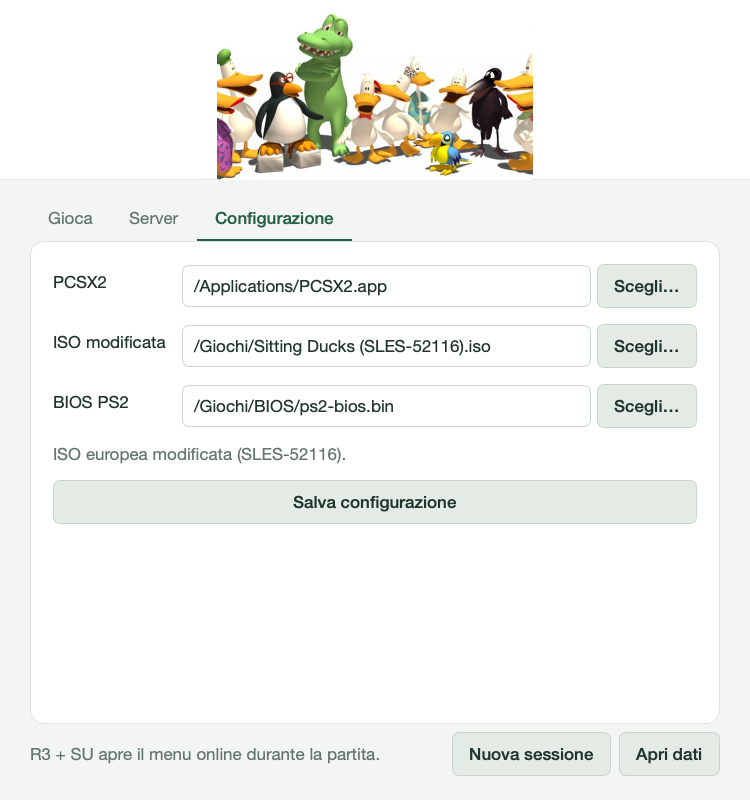
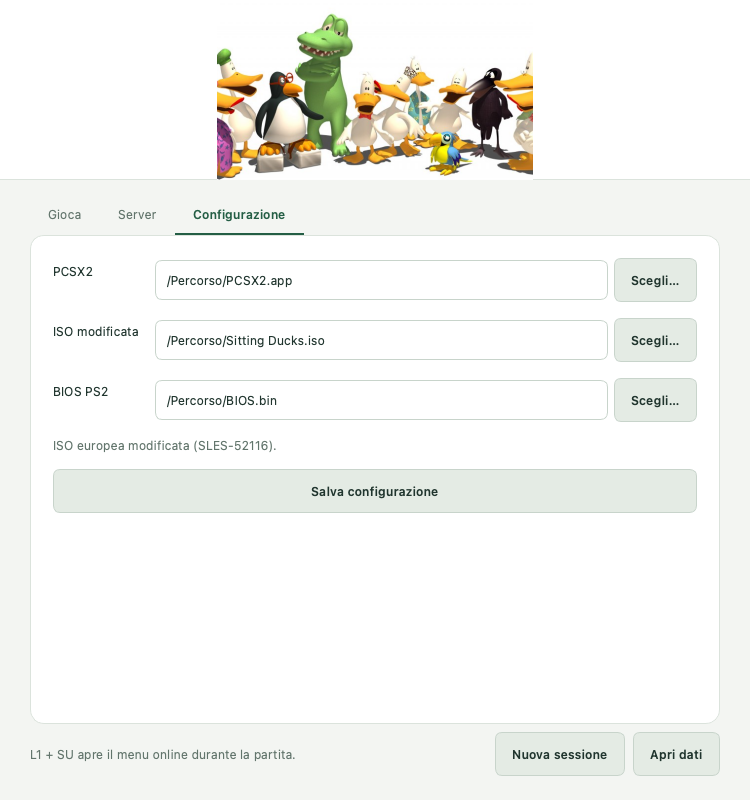
docs: update L1 controls and launcher help

diff --git a/it/features.html b/it/features.html
@@ -78,8 +78,7 @@
   <div class="media"></div>
 
   <h3 id="furgone">Furgone e NOS <span class="tag ok">confermato</span></h3>
-  <p>Un furgone guidabile, costruito dal modello del furgone già presente nella città, si evoca con
-    L3+Select. Tenendo premuto R1 alla guida si attiva il NOS: velocità doppia e fiamma azzurra e arancione dallo scarico.</p>
+  <p>Un furgone guidabile, costruito dal modello del furgone già presente nella città, si richiama dal menu dei mezzi. Tenendo premuto R1 alla guida si attiva il NOS: velocità doppia e fiamma azzurra e arancione dallo scarico.</p>
   <div class="media"></div>
 
   <h3 id="volo">Volo <span class="tag ok">confermato</span></h3>
@@ -95,18 +94,18 @@
   <p>Gli skate e gli aerei scelti dal menu non scompaiono più. Raoul, il corvo, compare nel menu dei mezzi.</p>
   <div class="media"></div>
 
-  <h3 id="personaggio">Cambio personaggio <span class="tag ok">confermato</span></h3>
-  <p>Con le frecce sinistra e destra passi da Bill ad Aldo e viceversa durante l'esplorazione.</p>
+  <h3 id="personaggio">Cambio personaggio <span class="tag wip">in prova</span></h3>
+  <p>Tieni L1 e premi DESTRA per passare al personaggio successivo durante l'esplorazione (comando aggiornato, in prova).</p>
   <div class="media"></div>
 
-  <h3 id="guardaroba">Guardaroba <span class="tag ok">confermato</span></h3>
-  <p>L1 apre il guardaroba: si scelgono i pezzi (cappelli, maschere, costumi) zona per zona con le frecce.
+  <h3 id="guardaroba">Guardaroba <span class="tag wip">in prova</span></h3>
+  <p>Premi e rilascia L1 da solo per aprire/chiudere il guardaroba (comando aggiornato, in prova). Una combo annulla il tap: si scelgono i pezzi (cappelli, maschere, costumi) zona per zona con le frecce.
     Gli accessori vengono dal gioco originale, dove li indossavano altri personaggi. Online, la scelta viene salvata nel profilo.</p>
   <div class="media"></div>
 
   <h3 id="giornonotte">Giorno e notte <span class="tag ok">confermato</span></h3>
   <p>Un ciclo completo dura 15 minuti. Di notte ci sono meno civili in strada e suona la musica della palude.
-    R3+Select passa subito dal giorno alla notte o viceversa.</p>
+    La scorciatoia sul controller è rimossa; giorno e notte restano regolabili dall'host.</p>
   <div class="media"></div>
 
   <h3 id="coop">Co-op a schermo condiviso <span class="tag ok">confermato</span></h3>
@@ -126,8 +125,8 @@
     nel server, oppure lo ospita. Non serve installare Python.</p>
   <div class="media"><img src="../media/launcher-gioca.png" alt="Il launcher"></div>
 
-  <h3 id="menuonline">Menu online nel gioco <span class="tag ok">confermato</span></h3>
-  <p>R3+SU apre il menu online senza uscire dal gioco: Ospita, Entra, Disconnetti. Uscire dalla partita scollega dal server.</p>
+  <h3 id="menuonline">Menu online nel gioco <span class="tag wip">in prova</span></h3>
+  <p>L1+SU apre il menu online senza uscire dal gioco: Ospita, Entra, Disconnetti. Uscire dalla partita scollega dal server.</p>
   <div class="media"></div>
 
   <h3 id="profili">Profili persistenti e piume <span class="tag ok">confermato</span></h3>
@@ -151,7 +150,7 @@
   <div class="media"></div>
 
   <h3 id="riconnessione">Rientro dal gioco <span class="tag wip">in prova</span></h3>
-  <p>Dopo la disconnessione e il ripristino della partita offline, R3+SU → Entra ricollega all'ultimo server con il launcher
+  <p>Dopo la disconnessione e il ripristino della partita offline, L1+SU → Entra ricollega all'ultimo server con il launcher
     in background. Il launcher riconosce questa connessione e permette di scollegarla. Gli errori di rete o patch restano visibili,
     senza chiedere di caricare una partita già caricata. Controlli automatici del ciclo superati; conferma nel gioco pendente.</p>
   <div class="media"></div>
@@ -163,7 +162,7 @@
   <div class="media"></div>
 
   <h3 id="host">Impostazioni dell'host <span class="tag wip">in prova</span></h3>
-  <p>Chi ospita, dal menu R3+SU: piume iniziali, sblocchi (scooter, veicoli, oggetti, mappe, personaggi), ciclo
+  <p>Chi ospita, dal menu L1+SU: piume iniziali, sblocchi (scooter, veicoli, oggetti, mappe, personaggi), ciclo
     giorno e notte, civili sì o no, aree della città sbloccate. Può anche azzerare il profilo di un giocatore o chiudere il server.</p>
   <div class="media"></div>
 
@@ -176,7 +175,7 @@
     indossabili e accessori, scegliendo prezzo in piume, distanza e altezza. Ogni giocatore li sblocca
     separatamente; l'acquisto richiede conferma e le richieste ripetute non addebitano due volte.
     Alcune abilità/mappe usano una piuma come segnaposto. I veicoli esposti sbloccano il richiamo dall'inventario.</p>
-  <p>A piedi, Cerchio vicino a un player/NPC davanti a te richiede una spinta, con caduta, impulso nel verso
+  <p>A piedi, L1 + Cerchio vicino a un player/NPC davanti a te richiede una spinta, con caduta, impulso nel verso
     del calcio e perdita di piume. L'animazione dello skate è candidata alla riproduzione inversa.
     Verifiche automatiche e rete reale superate; resa visiva, quantità delle piume e collisioni richiedono
     ancora il collaudo con due client. Riavvio completo con server e client aggiornati, senza vecchi savestate.</p>
@@ -198,17 +197,17 @@
   <table>
     <tr><th>Comando</th><th>Effetto</th></tr>
     <tr><td>Triangolo vicino a un mezzo</td><td>fa scendere il civile, poi ti fa salire</td></tr>
-    <tr><td>L3 + Select</td><td>evoca il furgone</td></tr>
     <tr><td>R1 alla guida</td><td>NOS</td></tr>
     <tr><td>R1 a piedi (Aldo)</td><td>rincorsa e morso, poi rilascio</td></tr>
-    <tr><td>Frecce ← →</td><td>cambio personaggio Bill / Aldo</td></tr>
-    <tr><td>L1</td><td>guardaroba</td></tr>
-    <tr><td>R3 + Select</td><td>giorno ↔ notte</td></tr>
+    <tr><td>L1 + DESTRA</td><td>personaggio successivo (in prova)</td></tr>
+    <tr><td>L1 da solo, rilascio</td><td>guardaroba (in prova)</td></tr>
     <tr><td>L3 + R3</td><td>richiama il compagno (co-op)</td></tr>
-    <tr><td>R3 + SU</td><td>menu online</td></tr>
+    <tr><td>L1 + SU</td><td>menu online</td></tr>
     <tr><td>L1 + GIÙ</td><td>microfono acceso/spento (in prova)</td></tr>
     <tr><td>L1 + Triangolo</td><td>sali dietro (in prova); Cerchio per scendere</td></tr>
+    <tr><td>L1 + Cerchio</td><td>spinta a piedi (in prova)</td></tr>
   </table>
+  <p>Comandi aggiornati in prova: le combinazioni con L1 non aprono il guardaroba al rilascio. R1 e L3+R3 mantengono le loro funzioni. La vecchia scorciatoia di restituzione del mezzo è rimossa.</p>
 
 </main>
 <footer>Progetto fan-made non ufficiale. Nessun file del gioco viene distribuito.</footer>

diff --git a/features.html b/features.html
@@ -78,7 +78,7 @@
   <div class="media"></div>
 
   <h3 id="van">Van and NOS <span class="tag ok">confirmed</span></h3>
-  <p>L3+Select spawns a drivable van, built from the van model already in town. Hold R1 while driving for NOS:
+  <p>The vehicle menu recalls a drivable van, built from the van model already in town. Hold R1 while driving for NOS:
     double speed and a blue and orange flame from the exhaust.</p>
   <div class="media"></div>
 
@@ -95,18 +95,18 @@
   <p>Skateboards and planes picked from the menu no longer disappear. Raoul the crow shows up in the vehicles menu.</p>
   <div class="media"></div>
 
-  <h3 id="character">Character switch <span class="tag ok">confirmed</span></h3>
-  <p>The left and right arrows switch between Bill and Aldo while exploring.</p>
+  <h3 id="character">Character switch <span class="tag wip">testing</span></h3>
+  <p>Hold L1 and press RIGHT to cycle through available characters while exploring (updated controls, testing).</p>
   <div class="media"></div>
 
-  <h3 id="wardrobe">Wardrobe <span class="tag ok">confirmed</span></h3>
-  <p>L1 opens the wardrobe. Pick pieces (hats, masks, costumes) slot by slot with the arrows. The accessories come from the original
+  <h3 id="wardrobe">Wardrobe <span class="tag wip">testing</span></h3>
+  <p>Press and release L1 alone to open or close the wardrobe (updated controls, testing). A button combination cancels the tap. Pick pieces (hats, masks, costumes) slot by slot with the arrows. The accessories come from the original
     game, where other characters wore them. Online, your choice is saved in your profile.</p>
   <div class="media"></div>
 
   <h3 id="daynight">Day and night <span class="tag ok">confirmed</span></h3>
   <p>A full cycle lasts 15 minutes. At night there are fewer people on the streets and the swamp music plays.
-    R3+Select switches between day and night instantly.</p>
+    The controller shortcut has been removed; day/night remains configurable by the host.</p>
   <div class="media"></div>
 
   <h3 id="coop">Split-screen co-op <span class="tag ok">confirmed</span></h3>
@@ -125,8 +125,8 @@
     You don't need to install Python.</p>
   <div class="media"><img src="media/launcher-gioca.png" alt="The launcher"></div>
 
-  <h3 id="online-menu">In-game online menu <span class="tag ok">confirmed</span></h3>
-  <p>R3+UP opens the online menu without leaving the game: Host, Join, Disconnect. Leaving the game disconnects you from the server.</p>
+  <h3 id="online-menu">In-game online menu <span class="tag wip">testing</span></h3>
+  <p>L1+UP opens the online menu without leaving the game: Host, Join, Disconnect. Leaving the game disconnects you from the server.</p>
   <div class="media"></div>
 
   <h3 id="profiles">Persistent profiles and feathers <span class="tag ok">confirmed</span></h3>
@@ -150,7 +150,7 @@
   <div class="media"></div>
 
   <h3 id="reconnect">Rejoin from the game <span class="tag wip">testing</span></h3>
-  <p>After disconnecting and restoring the offline game, R3+UP → Entra reconnects to the last server with the launcher
+  <p>After disconnecting and restoring the offline game, L1+UP → Entra reconnects to the last server with the launcher
     running in the background. The launcher recognises this connection and can disconnect it. Network or patch errors stay visible
     instead of asking you to load an already loaded game. Automated lifecycle checks pass; in-game confirmation is pending.</p>
   <div class="media"></div>
@@ -162,7 +162,7 @@
   <div class="media"></div>
 
   <h3 id="host">Host settings <span class="tag wip">testing</span></h3>
-  <p>From the R3+UP menu the host can set starting feathers, unlocks (scooters, vehicles, items, maps, characters), the day and night cycle,
+  <p>From the L1+UP menu the host can set starting feathers, unlocks (scooters, vehicles, items, maps, characters), the day and night cycle,
     passers-by on or off, and unlocked areas of town. The host can also reset a player's profile or shut the server down.</p>
   <div class="media"></div>
 
@@ -175,7 +175,7 @@
     accessories, choosing a feather price, distance and height. Each player unlocks them separately;
     paid purchases require confirmation and repeated requests do not charge twice. Some abilities/maps
     use a feather placeholder. Display vehicles unlock their inventory recall.</p>
-  <p>On foot, Circle near a player/NPC in front of you requests a push, with a fall, an impulse in the kick's
+  <p>On foot, L1 + Circle near a player/NPC in front of you requests a push, with a fall, an impulse in the kick's
     direction and dropped feathers. The skate animation is a candidate for reverse playback. Automated
     checks and a real network flow pass; visuals, feather amounts and collisions still need two-client
     in-game testing. Fully restart updated server and clients without older savestates.</p>
@@ -197,17 +197,17 @@
   <table>
     <tr><th>Input</th><th>Effect</th></tr>
     <tr><td>Triangle near a vehicle</td><td>makes the driver get off, then gets you on</td></tr>
-    <tr><td>L3 + Select</td><td>spawns the van</td></tr>
     <tr><td>R1 while driving</td><td>NOS</td></tr>
     <tr><td>R1 on foot (Aldo)</td><td>chase and bite, then release</td></tr>
-    <tr><td>Arrows ← →</td><td>switch Bill / Aldo</td></tr>
-    <tr><td>L1</td><td>wardrobe</td></tr>
-    <tr><td>R3 + Select</td><td>day ↔ night</td></tr>
+    <tr><td>L1 + RIGHT</td><td>next character (testing)</td></tr>
+    <tr><td>L1 alone, release</td><td>wardrobe (testing)</td></tr>
     <tr><td>L3 + R3</td><td>call back your partner (co-op)</td></tr>
-    <tr><td>R3 + UP</td><td>online menu</td></tr>
+    <tr><td>L1 + UP</td><td>online menu</td></tr>
     <tr><td>L1 + DOWN</td><td>microphone on/off (testing)</td></tr>
     <tr><td>L1 + Triangle</td><td>board rear seat (testing); Circle gets off</td></tr>
+    <tr><td>L1 + Circle</td><td>push on foot (testing)</td></tr>
   </table>
+  <p>Updated controls are under testing: L1 combinations do not open the wardrobe on release. R1 and L3+R3 keep their existing roles. The old return-vehicle shortcut is removed.</p>
 
 </main>
 <footer>Unofficial fan project. No game files are distributed.</footer>

diff --git a/it/tutorial.html b/it/tutorial.html
@@ -79,16 +79,16 @@
     Gli altri giocatori compaiono accanto a te.</p>
 
   <h3>3. Il menu online</h3>
-  <p>Durante il gioco <strong>R3 + SU</strong> apre il menu online: SU/GIÙ per scegliere, DESTRA per confermare.
+  <p>Durante il gioco <strong>L1 + SU</strong> apre il menu online: SU/GIÙ per scegliere, DESTRA per confermare.
     Da qui ti scolleghi senza chiudere il gioco. Anche uscire dalla partita ti scollega.</p>
 
   <h3>4. Uscire</h3>
-  <p><strong>Disconnetti</strong> (nel launcher o nel menu R3 + SU) chiude il collegamento in modo pulito. Il gioco resta aperto e <strong>Entra</strong> lo riutilizza.</p>
+  <p><strong>Disconnetti</strong> (nel launcher o nel menu L1 + SU) chiude il collegamento in modo pulito. Il gioco resta aperto e <strong>Entra</strong> lo riutilizza.</p>
 
   <h2 id="ospitare">Ospitare una partita</h2>
   <ol>
     <li>Nella scheda <strong>Gioca</strong> premi <strong>Ospita e gioca</strong>: il launcher avvia il server e ti fa entrare.
-      Le impostazioni di chi ospita (piume, sblocchi, giorno e notte, civili, giocatori) sono nel menu R3 + SU durante la partita.</li>
+      Le impostazioni di chi ospita (piume, sblocchi, giorno e notte, civili, giocatori) sono nel menu L1 + SU durante la partita.</li>
     <li>Nella scheda <strong>Server</strong> vedi lo stato e i giocatori collegati. <strong>Avvia solo server</strong> funziona anche senza gioco;
       <strong>Nuova campagna</strong> fa ripartire da zero le missioni condivise.</li>
     <li>Dai agli amici l'indirizzo del tuo computer:
@@ -105,7 +105,7 @@
   <h2 id="riconnessione">Rientrare senza usare la finestra del launcher <span class="tag wip">in prova</span></h2>
   <ol>
     <li>Lascia il launcher sorgente aggiornato in background. Scollegati e attendi il ripristino della partita offline.</li>
-    <li>Apri R3+SU e scegli Entra sull'ultimo server, oppure Rientra nel server nella prima riga.</li>
+    <li>Apri L1+SU e scegli Entra sull'ultimo server, oppure Rientra nel server nella prima riga.</li>
     <li>Puoi ripetere il ciclo; anche il launcher riconosce la nuova connessione e il suo pulsante Disconnetti funziona.</li>
   </ol>
   <p>Questa modifica Python richiede un nuovo avvio del launcher per essere attiva; la riconnessione normale non riavvia il gioco.
@@ -123,13 +123,13 @@
   <ol>
     <li>Aggiorna il pacchetto su tutti i PC. Chiudi e riavvia completamente server e PCSX2;
       non caricare savestate precedenti.</li>
-    <li>Host: R3+SU → Opzioni server → Modalità server: Campagna/Free Play. In Sbloccabili trovi
+    <li>Host: L1+SU → Opzioni server → Modalità server: Campagna/Free Play. In Sbloccabili trovi
       Sblocca accessori; in Giocatori → nome trovi il comando sul singolo profilo.</li>
-    <li>Host a piedi: R3+SU → Piazza oggetti → categoria → oggetto, poi prezzo, distanza, altezza
+    <li>Host a piedi: L1+SU → Piazza oggetti → categoria → oggetto, poi prezzo, distanza, altezza
       e Piazza davanti a me. Oggetti posizionati permette di rimuoverli.</li>
     <li>Giocatore: avvicinati al punto. Gratis sblocca alla raccolta; a pagamento premi DESTRA su Acquista.
       Annulla o SINISTRA chiudono senza pagare. Il veicolo acquistato si richiama dall'inventario.</li>
-    <li>A piedi, guarda un player/NPC vicino e premi Cerchio per la spinta. Verifica con un amico
+    <li>A piedi, guarda un player/NPC vicino e premi L1 + Cerchio per la spinta. Verifica con un amico
       caduta, direzione e piume; queste aggiunte attendono ancora conferma nel gioco.</li>
     <li>Premi L1 + Triangolo vicino a un conducente per salire dietro. Cerchio per scendere.</li>
     <li>Premi L1 + GIÙ per accendere/spegnere il microfono. Consenti l'accesso quando lo chiede il sistema.
@@ -139,6 +139,7 @@
     <li>Host: regola separatamente la velocità massima a piedi di player e civili; confronta la velocità
       raggiunta sulla stessa distanza dopo l'accelerazione, non soltanto i primi passi.</li>
   </ol>
+  <p>Guardaroba: premi e rilascia L1 da solo. Se usi un altro pulsante mentre tieni L1, quel tap è annullato. L1+DESTRA cambia personaggio; L1+Cerchio spinge. R1 resta NOS/rincorsa e L3+R3 richiama il compagno. Scorciatoie giorno/notte e restituzione del mezzo rimosse. Avvio completo con il pacchetto aggiornato.</p>
 </main>
 <footer>Progetto fan-made non ufficiale. Nessun file del gioco viene distribuito.</footer>
 </body>

diff --git a/tutorial.html b/tutorial.html
@@ -80,16 +80,16 @@
     The other players appear next to you.</p>
 
   <h3>3. The online menu</h3>
-  <p>In game, <strong>R3 + UP</strong> opens the online menu: UP/DOWN to choose, RIGHT to confirm.
+  <p>In game, <strong>L1 + UP</strong> opens the online menu: UP/DOWN to choose, RIGHT to confirm.
     From here you can disconnect without closing the game. Leaving the game also disconnects you.</p>
 
   <h3>4. Leaving</h3>
-  <p><strong>Disconnetti</strong> (Disconnect), in the launcher or in the R3 + UP menu, closes the connection cleanly. The game stays open and <strong>Entra</strong> reuses it.</p>
+  <p><strong>Disconnetti</strong> (Disconnect), in the launcher or in the L1 + UP menu, closes the connection cleanly. The game stays open and <strong>Entra</strong> reuses it.</p>
 
   <h2 id="host">Hosting a game</h2>
   <ol>
     <li>In the <strong>Gioca</strong> (Play) tab press <strong>Ospita e gioca</strong> (Host and play): the launcher starts the server and joins it.
-      Host settings (feathers, unlocks, day and night, passers-by, players) are in the R3 + UP menu during the game.</li>
+      Host settings (feathers, unlocks, day and night, passers-by, players) are in the L1 + UP menu during the game.</li>
     <li>The <strong>Server</strong> tab shows the status and the connected players. <strong>Avvia solo server</strong> (Start server only) works even without the game;
       <strong>Nuova campagna</strong> (New campaign) restarts the shared missions from scratch.</li>
     <li>Give your friends your computer's address:
@@ -106,7 +106,7 @@
   <h2 id="reconnect">Rejoin without using the launcher window <span class="tag wip">testing</span></h2>
   <ol>
     <li>Keep the updated source launcher running in the background. Disconnect and wait for the offline game to be restored.</li>
-    <li>Open R3+UP and choose Entra on the last server, or Rientra nel server on the first row.</li>
+    <li>Open L1+UP and choose Entra on the last server, or Rientra nel server on the first row.</li>
     <li>You can repeat this cycle; the launcher also recognises the new connection and its Disconnetti button works.</li>
   </ol>
   <p>This Python change needs a newly opened launcher to take effect; normal reconnection does not restart the game.
@@ -124,13 +124,13 @@
   <ol>
     <li>Update the package on every PC. Fully close and restart the server and PCSX2; do not load
       older savestates.</li>
-    <li>Host: R3+UP → Opzioni server → Modalita server: Campaign/Free Play. Sbloccabili contains
+    <li>Host: L1+UP → Opzioni server → Modalita server: Campaign/Free Play. Sbloccabili contains
       Sblocca accessori; Giocatori → name contains the individual profile command.</li>
-    <li>Host on foot: R3+UP → Piazza oggetti → category → item, then price, distance, height and
+    <li>Host on foot: L1+UP → Piazza oggetti → category → item, then price, distance, height and
       Piazza davanti a me. Oggetti posizionati lets you remove points.</li>
     <li>Player: approach the point. Free items unlock on pickup; for paid items press RIGHT on Acquista.
       Annulla or LEFT closes without paying. Recall a purchased vehicle from the inventory.</li>
-    <li>On foot, face a nearby player/NPC and press Circle to push. Check falling, direction and feathers
+    <li>On foot, face a nearby player/NPC and press L1 + Circle to push. Check falling, direction and feathers
       with a friend; these additions still await in-game confirmation.</li>
     <li>Press L1 + Triangle near a rider to board the rear seat. Circle gets off.</li>
     <li>Press L1 + DOWN to turn the microphone on/off. Allow microphone access when the system asks.
@@ -140,6 +140,7 @@
     <li>Host: adjust maximum walking speed separately for players and civilians; compare top speed
       over the same distance after accelerating, without relying only on the first few steps.</li>
   </ol>
+  <p>Wardrobe: press and release L1 alone. Any other button used while holding L1 cancels that tap. L1+RIGHT cycles characters; L1+Circle pushes. R1 stays NOS/chase and L3+R3 stays partner recall. Day/night and return-vehicle shortcuts are removed. Fully restart with the updated package.</p>
 </main>
 <footer>Unofficial fan project. No game files are distributed.</footer>
 </body>

diff --git a/it/online.html b/it/online.html
@@ -52,7 +52,7 @@
   <h2 id="giocare">Come giocare e ospitare</h2>
   <p class="card">Passo per passo, con le immagini del launcher: <a href="tutorial.html#online">Tutorial → Giocare online</a>.
     In breve: <strong>Entra</strong> per collegarti a un server, <strong>Ospita e gioca</strong> per crearne uno (porta TCP <code>28022</code>),
-    <strong>R3 + SU</strong> nel gioco per il menu online.</p>
+    <strong>L1 + SU</strong> nel gioco per il menu online.</p>
 
   <h2 id="regole">Regole della partita</h2>
   <ul>
@@ -96,7 +96,7 @@
     <li>Prezzo, saldo, distanza e possesso controllati dal server; ricevuta e oggetto salvati insieme.
       Le revisioni impediscono a vecchi autosalvataggi di annullare un acquisto o una modifica host.
       I guadagni di piume rimangono simulati dai client, secondo il modello di fiducia già usato.</li>
-    <li>Spinta a piedi con Cerchio: bersaglio frontale entro 2 m, pausa di 0,8 s; caduta simulata dal
+    <li>Spinta a piedi con L1 + Cerchio: bersaglio frontale entro 2 m, pausa di 0,8 s; caduta simulata dal
       proprietario della vittima e replicata agli altri. Nessuna spinta su personaggi montati o catturati.</li>
   </ul>
   <p>Conferma acquisto nel menu online con renderer nativo; la finestra del negozio originale non è ancora

diff --git a/online.html b/online.html
@@ -53,7 +53,7 @@
   <h2 id="play">How to play and host</h2>
   <p class="card">Step by step, with launcher screenshots: <a href="tutorial.html#online">Tutorial → Playing online</a>.
     In short: <strong>Entra</strong> (Join) connects you to a server, <strong>Ospita e gioca</strong> (Host and play) creates one (TCP port <code>28022</code>),
-    and <strong>R3 + UP</strong> in game opens the online menu.</p>
+    and <strong>L1 + UP</strong> in game opens the online menu.</p>
 
   <h2 id="rules">Game rules</h2>
   <ul>
@@ -96,7 +96,7 @@
     <li>The server checks price, balance, range and ownership; the receipt and item are saved together.
       Revisions stop older autosaves undoing purchases or host edits. Feather earnings remain client
       simulated under the existing trust model.</li>
-    <li>Circle pushing on foot: target in front within 2 m, 0.8-second cooldown; the victim's owner simulates
+    <li>L1 + Circle pushing on foot: target in front within 2 m, 0.8-second cooldown; the victim's owner simulates
       the fall and replicates it. Mounted or captured characters cannot be pushed.</li>
   </ul>
   <p>Purchase confirmation uses the online menu and native renderer; the original shop window has not yet

diff --git a/it/engine.html b/it/engine.html
@@ -186,6 +186,7 @@
     seleziona la copia durante l'update, poi ripristina la clip originale e mantiene il callback coccodrilli.
     Tracce del corpo, stato movimento e cursore restano intatti. Clip incompatibili e pose con prede saltano
     lo strato. Quad dell'HUD nativo disegnano il microfono anche con menu online chiuso.</p>
+  <h2 id="l1-controls">Tap L1 e combinazioni <span class="tag wip">in prova</span></h2><p>Il guardaroba conserva un tap pendente per player e cambia stato solo al rilascio. Un altro pulsante annulla l'intera pressione, anche durante salita/cambio stato. L1+SU prende il focus prima del mascheramento frecce, senza far comparire il guardaroba; L1+DESTRA usa il selettore nativo dei personaggi. Il wrapper spinta inoltra Cerchio intatto se L1 non è premuto. Rimosse le scorciatoie per orologio e restituzione dei mezzi; opzioni host e interazioni ordinarie restano.</p>
 </main>
 <footer>Progetto fan-made non ufficiale. Nessun file del gioco viene distribuito.</footer>
 </body>

diff --git a/engine.html b/engine.html
@@ -188,6 +188,7 @@
     selects the copy for its update, restores the original clip afterwards and retains the existing crocodile
     callback. Body tracks, movement state and playback cursor stay intact. Incompatible clips and carrying
     poses skip the layer. Native HUD quads draw a microphone independently of the online menu.</p>
+  <h2 id="l1-controls">L1 tap and combinations <span class="tag wip">testing</span></h2><p>The wardrobe tracks a pending tap per player and toggles only on release. Another button cancels the whole press, including through a mount/state change. L1+UP takes menu focus before arrow masking, without a wardrobe flash; L1+RIGHT drives the native character selector. The native push input wrapper forwards Circle unchanged unless L1 is also held. Controller shortcuts for clock switching and returning vehicles were removed; host options and ordinary interactions remain.</p>
 </main>
 <footer>Unofficial fan project. No game files are distributed.</footer>
 </body>

diff --git a/it/releases.html b/it/releases.html
@@ -33,6 +33,8 @@
   <!-- Nuova versione = nuovo blocco .card IN CIMA, con data, novità, correzioni, limiti noti e link ai download. -->
 
 
+  <div class="card" id="l1-controls"><h3>Aggiornamento comandi L1 <span class="tag wip">in prova</span></h3><p><small>22 ottobre 2026</small></p><p>L1 da solo al rilascio: guardaroba. L1+SU: menu online; L1+DESTRA: personaggio; L1+Cerchio: spinta. Restano L1+GIÙ microfono e L1+Triangolo passeggero. R1 resta NOS/rincorsa, L3+R3 richiama il compagno. Rimosse scorciatoie giorno/notte e restituzione mezzo. Aiuti e schermate launcher aggiornati. Tutti devono aggiornare e riavviare senza vecchi savestate; conferma nel gioco pendente.</p></div>
+
   <div class="card" id="schema14-testing">
     <h3>Aggiornamento di sviluppo — schema 14 <span class="tag wip">in prova</span></h3>
     <p><small>22 ottobre 2026</small></p>

diff --git a/releases.html b/releases.html
@@ -34,6 +34,8 @@
   <!-- New version = new .card block AT THE TOP, with date, new features, fixes, known limits and download links. -->
 
 
+  <div class="card" id="l1-controls"><h3>L1 controls update <span class="tag wip">testing</span></h3><p><small>22 October 2026</small></p><p>L1 alone on release: wardrobe. L1+UP: online menu; L1+RIGHT: character; L1+Circle: push. Microphone L1+DOWN and passenger L1+Triangle remain. R1 remains NOS/chase, L3+R3 partner recall. Day/night and return-vehicle shortcuts removed. Updated help and launcher screenshots. All peers must update and fully restart without older savestates; in-game confirmation pending.</p></div>
+
   <div class="card" id="schema14-testing">
     <h3>Development update — schema 14 <span class="tag wip">testing</span></h3>
     <p><small>22 October 2026</small></p>
